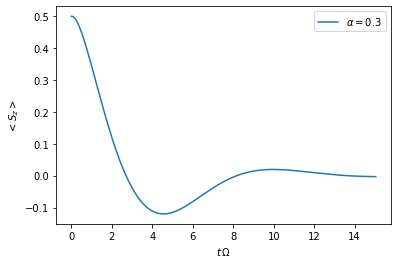
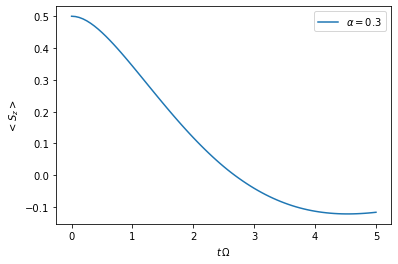
Update Tutorial 01

diff --git a/tutorials/tutorial_01_quickstart.py b/tutorials/tutorial_01_quickstart.py
@@ -52,7 +52,7 @@ correlations = tempo.PowerLawSD(alpha=alpha,
                                 cutoff_type='exponential', 
                                 max_correlation_time=8.0)
 bath = tempo.Bath(0.5 * tempo.operators.sigma("z"), correlations)
-tempo_parameters = tempo.TempoParameters(dt=0.1, dkmax=30, epsrel=10**(-5))
+tempo_parameters = tempo.TempoParameters(dt=0.1, dkmax=30, epsrel=10**(-4))
 
 dynamics = tempo.tempo_compute(system=system,
                                bath=bath,
@@ -147,7 +147,7 @@ bath_A = tempo.Bath(0.5 * tempo.operators.sigma("z"), correlations_A)
 
 # ### A.3: The TEMPO Computation
 
-# Now, that we have the system and the bath objects ready we can compute the dynamics of the spin starting in the up state, from time $t=0$ to $t=15\,\Omega^{-1}$
+# Now, that we have the system and the bath objects ready we can compute the dynamics of the spin starting in the up state, from time $t=0$ to $t=5\,\Omega^{-1}$
 
 # In[10]:
 
@@ -156,7 +156,7 @@ dynamics_A_1 = tempo.tempo_compute(system=system_A,
                                    bath=bath_A,
                                    initial_state=tempo.operators.spin_dm("up"),
                                    start_time=0.0,
-                                   end_time=15.0,
+                                   end_time=5.0,
                                    tollerance=0.01)
 
 
@@ -217,7 +217,7 @@ tempo.helpers.plot_correlations_with_parameters(bath_A.correlations, parameters)
 # In[14]:
 
 
-tempo_parameters_A = tempo.TempoParameters(dt=0.1, dkmax=30, epsrel=10**(-5), name="my rough parameters")
+tempo_parameters_A = tempo.TempoParameters(dt=0.1, dkmax=30, epsrel=10**(-4), name="my rough parameters")
 print(tempo_parameters_A)
 
 

diff --git a/docs/pages/tutorial_01_quickstart/tutorial_01_quickstart.rst b/docs/pages/tutorial_01_quickstart/tutorial_01_quickstart.rst
@@ -42,7 +42,7 @@ and check what version of tempo we are using.
 
 .. parsed-literal::
 
-    '0.0.3'
+    '0.1.0'
 
 
 
@@ -81,7 +81,7 @@ the job - just to have an idea where we are going:
                                     cutoff_type='exponential',
                                     max_correlation_time=8.0)
     bath = tempo.Bath(0.5 * tempo.operators.sigma("z"), correlations)
-    tempo_parameters = tempo.TempoParameters(dt=0.1, dkmax=30, epsrel=10**(-5))
+    tempo_parameters = tempo.TempoParameters(dt=0.1, dkmax=30, epsrel=10**(-4))
 
     dynamics = tempo.tempo_compute(system=system,
                                    bath=bath,
@@ -99,15 +99,15 @@ the job - just to have an idea where we are going:
 
 .. parsed-literal::
 
-    100.0%  150 of  150 [########################################] 00:00:25
-    Elapsed time: 25.4s
+    100.0%  150 of  150 [########################################] 00:00:10
+    Elapsed time: 10.7s
 
 
 
 
 .. parsed-literal::
 
-    <matplotlib.legend.Legend at 0x7f1b95173dd8>
+    <matplotlib.legend.Legend at 0x7fbcfc6cf4e0>
 
 
 
@@ -236,7 +236,7 @@ A.3: The TEMPO Computation
 
 Now, that we have the system and the bath objects ready we can compute
 the dynamics of the spin starting in the up state, from time :math:`t=0`
-to :math:`t=15\,\Omega^{-1}`
+to :math:`t=5\,\Omega^{-1}`
 
 .. code:: python3
 
@@ -244,21 +244,21 @@ to :math:`t=15\,\Omega^{-1}`
                                        bath=bath_A,
                                        initial_state=tempo.operators.spin_dm("up"),
                                        start_time=0.0,
-                                       end_time=15.0,
+                                       end_time=5.0,
                                        tollerance=0.01)
 
 
 .. parsed-literal::
 
-    ../time_evolving_mpo/tempo.py:492: UserWarning: Estimating parameters for TEMPO computation. No guarantie that resulting TEMPO computation converges towards the correct dynamics! Please refere to the TEMPO documentation and check convergence by varying the parameters for TEMPO manually.
+    ../time_evolving_mpo/tempo.py:495: UserWarning: Estimating parameters for TEMPO computation. No guarantie that resulting TEMPO computation converges towards the correct dynamics! Please refere to the TEMPO documentation and check convergence by varying the parameters for TEMPO manually.
       warnings.warn(GUESS_WARNING_MSG, UserWarning)
     WARNING: Estimating parameters for TEMPO computation. No guarantie that resulting TEMPO computation converges towards the correct dynamics! Please refere to the TEMPO documentation and check convergence by varying the parameters for TEMPO manually.
 
 
 .. parsed-literal::
 
-    100.3%  301 of  300 [########################################] 00:01:05
-    Elapsed time: 65.9s
+    100.0%   80 of   80 [########################################] 00:00:06
+    Elapsed time: 6.7s
 
 
 and plot the result:
@@ -276,7 +276,7 @@ and plot the result:
 
 .. parsed-literal::
 
-    <matplotlib.legend.Legend at 0x7f1b94f6c4a8>
+    <matplotlib.legend.Legend at 0x7fbcfc5fa160>
 
 
 
@@ -334,6 +334,8 @@ whether it satisfies the above requirements:
 
 .. parsed-literal::
 
+    ../time_evolving_mpo/tempo.py:495: UserWarning: Estimating parameters for TEMPO computation. No guarantie that resulting TEMPO computation converges towards the correct dynamics! Please refere to the TEMPO documentation and check convergence by varying the parameters for TEMPO manually.
+      warnings.warn(GUESS_WARNING_MSG, UserWarning)
     WARNING: Estimating parameters for TEMPO computation. No guarantie that resulting TEMPO computation converges towards the correct dynamics! Please refere to the TEMPO documentation and check convergence by varying the parameters for TEMPO manually.
 
 
@@ -363,7 +365,7 @@ whether it satisfies the above requirements:
 
 .. parsed-literal::
 
-    <matplotlib.axes._subplots.AxesSubplot at 0x7f1b949694a8>
+    <AxesSubplot:xlabel='$\\tau$', ylabel='$C(\\tau)$'>
 
 
 
@@ -385,7 +387,7 @@ We can choose a set of parameters by hand and bundle them into a
 
 .. code:: python3
 
-    tempo_parameters_A = tempo.TempoParameters(dt=0.1, dkmax=30, epsrel=10**(-5), name="my rough parameters")
+    tempo_parameters_A = tempo.TempoParameters(dt=0.1, dkmax=30, epsrel=10**(-4), name="my rough parameters")
     print(tempo_parameters_A)
 
 
@@ -396,7 +398,7 @@ We can choose a set of parameters by hand and bundle them into a
      __no_description__
       dt            = 0.1
       dkmax         = 30
-      epsrel        = 1e-05
+      epsrel        = 0.0001
 
 
 
@@ -407,16 +409,22 @@ and check again with the helper function:
     tempo.helpers.plot_correlations_with_parameters(bath_A.correlations, tempo_parameters_A)
 
 
+.. parsed-literal::
+
+    ../time_evolving_mpo/helpers.py:59: UserWarning: Matplotlib is currently using module://ipykernel.pylab.backend_inline, which is a non-GUI backend, so cannot show the figure.
+      fig.show()
+
+
 
 
 .. parsed-literal::
 
-    <matplotlib.axes._subplots.AxesSubplot at 0x7f1b948af320>
+    <AxesSubplot:xlabel='$\\tau$', ylabel='$C(\\tau)$'>
 
 
 
 
-.. image:: output_38_1.png
+.. image:: output_38_2.png
 
 
 We could feed this object into the ``tempo.tempo_compute()`` function to
@@ -444,8 +452,8 @@ We can start by computing the dynamics up to time
 
 .. parsed-literal::
 
-    100.0%   50 of   50 [########################################] 00:00:07
-    Elapsed time: 7.5s
+    100.0%   50 of   50 [########################################] 00:00:03
+    Elapsed time: 3.0s
 
 
 then get and plot the dynamics of expecatation values,
@@ -463,7 +471,7 @@ then get and plot the dynamics of expecatation values,
 
 .. parsed-literal::
 
-    <matplotlib.legend.Legend at 0x7f1b950e7358>
+    <matplotlib.legend.Legend at 0x7fbcfc54f4a8>
 
 
 
@@ -480,8 +488,8 @@ then continue the computation to :math:`15.0\,\Omega^{-1}`,
 
 .. parsed-literal::
 
-    100.0%  100 of  100 [########################################] 00:00:25
-    Elapsed time: 25.7s
+    100.0%  100 of  100 [########################################] 00:00:12
+    Elapsed time: 12.3s
 
 
 and then again get and plot the dynamics of expecatation values.
@@ -499,7 +507,7 @@ and then again get and plot the dynamics of expecatation values.
 
 .. parsed-literal::
 
-    <matplotlib.legend.Legend at 0x7f1b950b5e48>
+    <matplotlib.legend.Legend at 0x7fbcfc13dd30>
 
 
 
